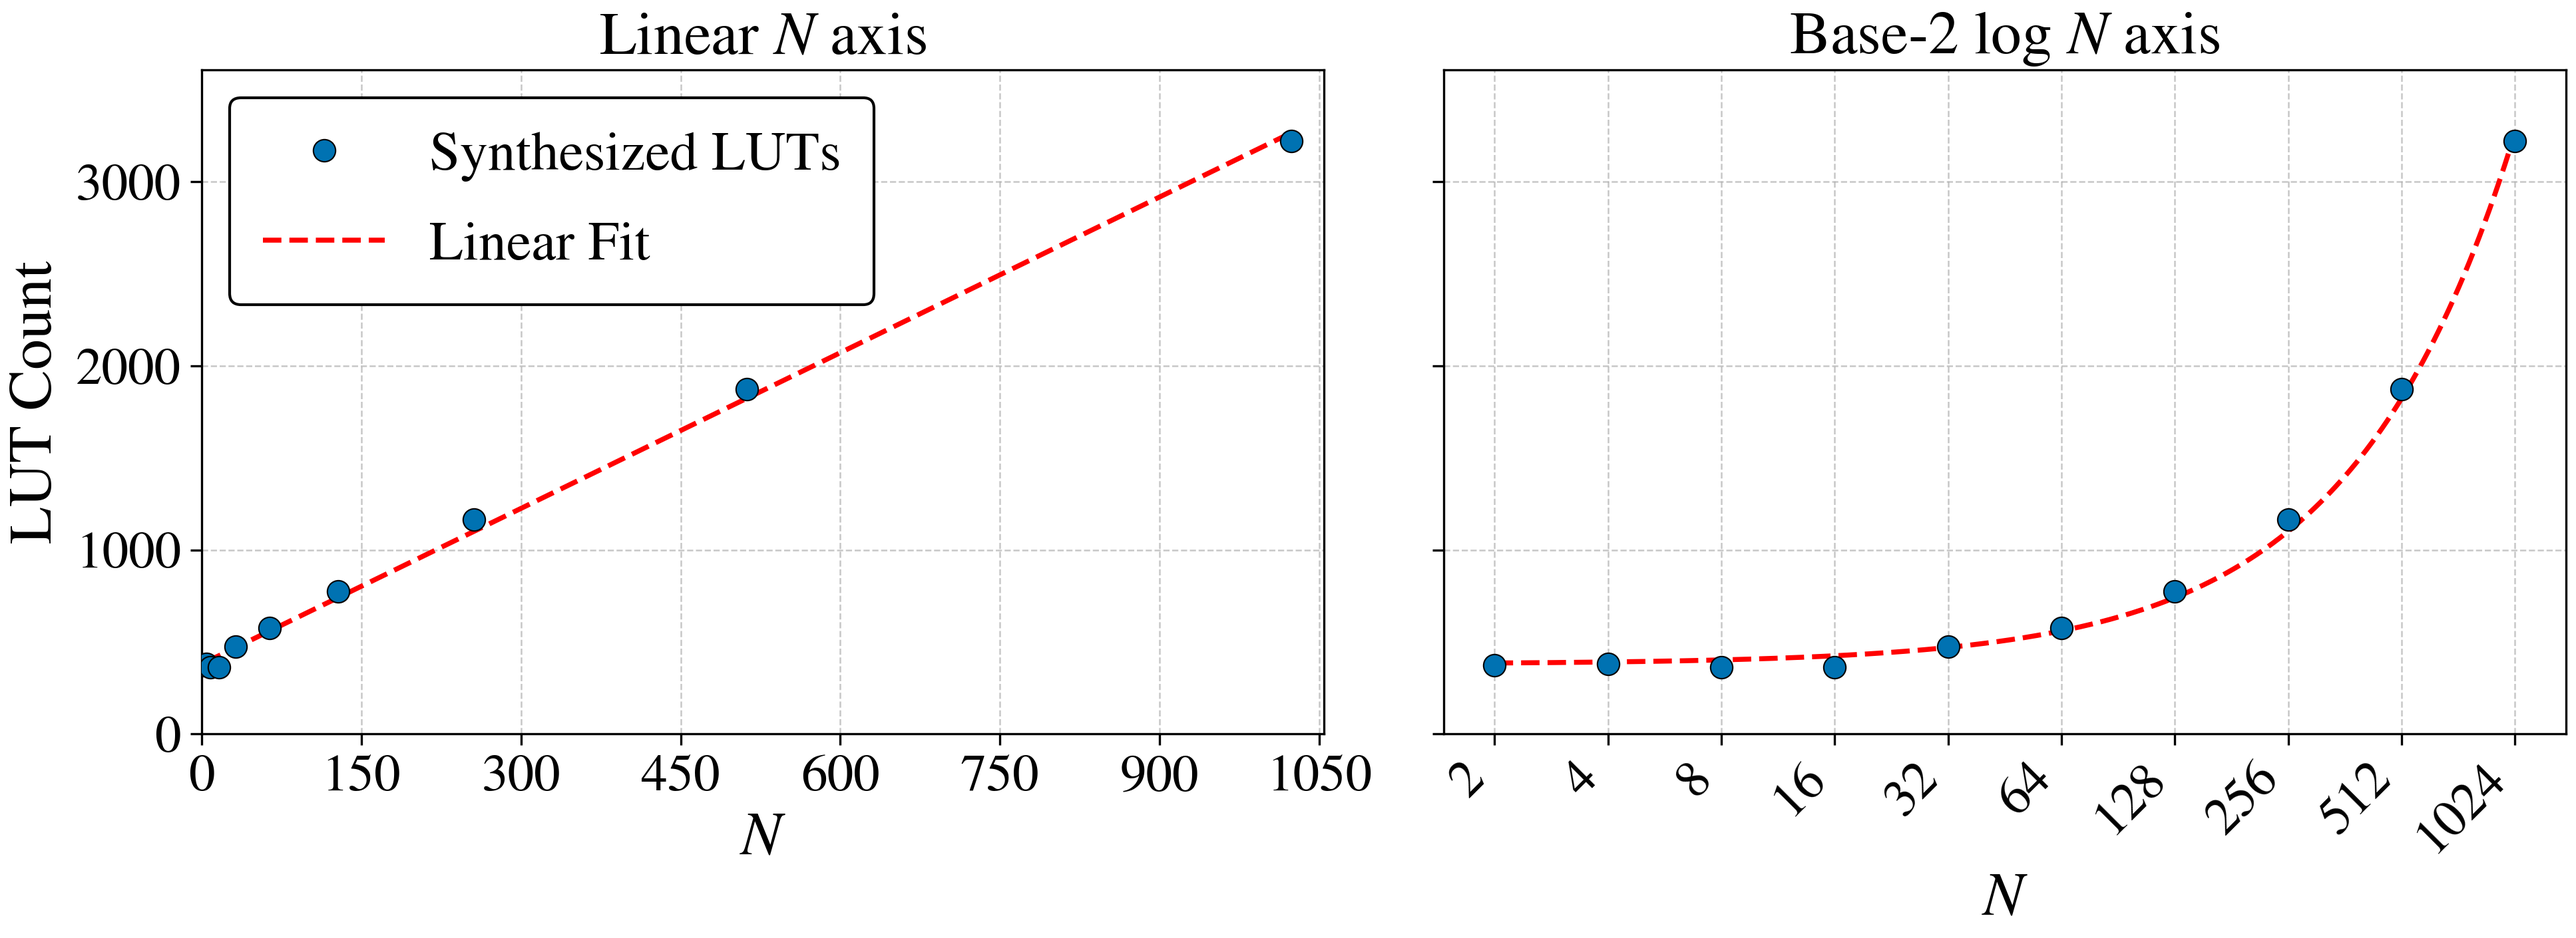
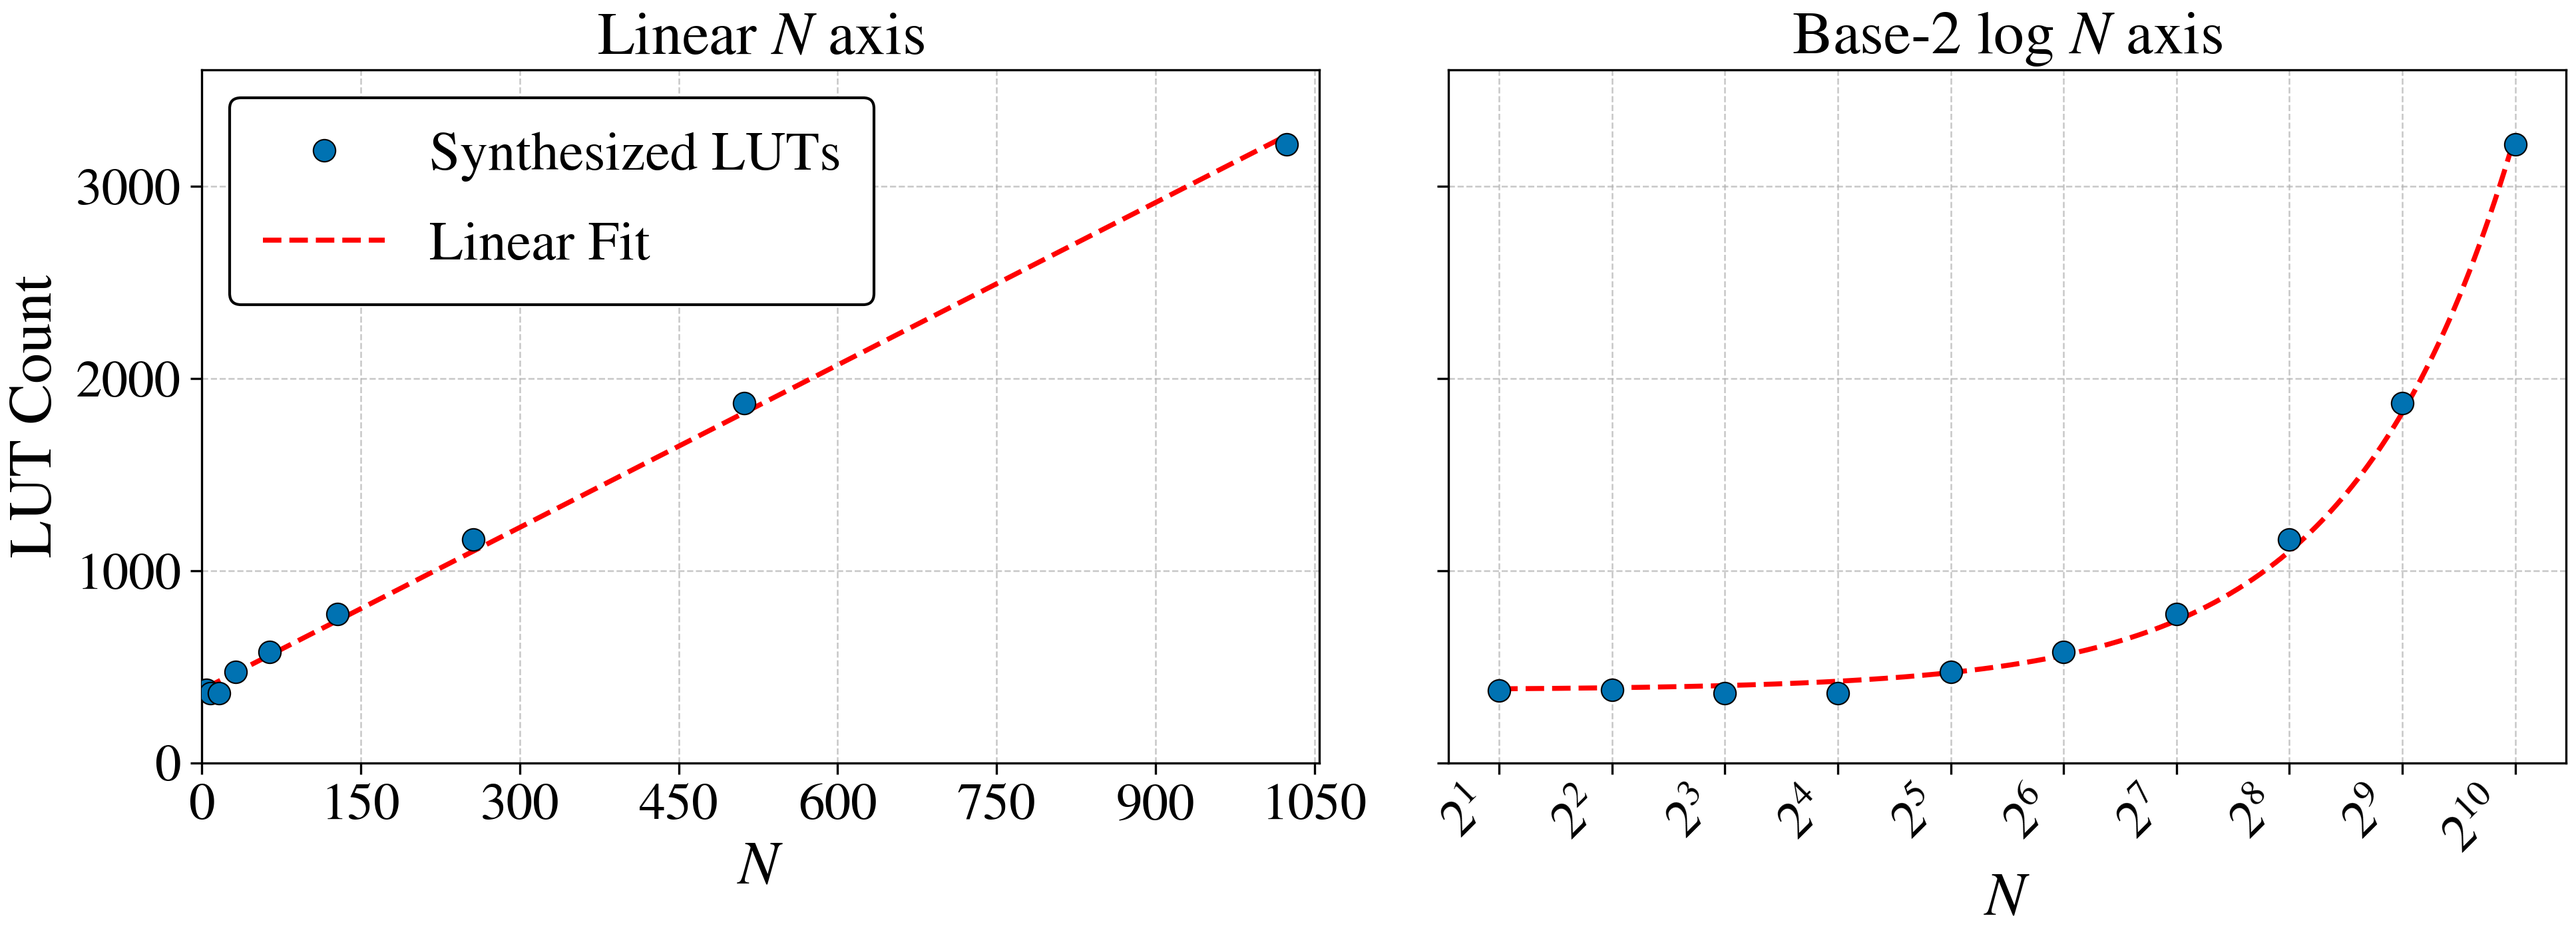
m

diff --git a/evaluation/layernorm/N_sweep/scripts/plot_accuracy.py b/evaluation/layernorm/N_sweep/scripts/plot_accuracy.py
@@ -92,6 +92,20 @@ SERIES = (
 COLOR_FIT = "red"
 
 
+def pow2_label(n: int) -> str:
+    """Format a sampled ``N`` as a base-2 power label for the log x-axis.
+
+    Every sampled ``N`` is a power of two, so it is shown as ``2^k`` (rendered
+    via mathtext, e.g. ``2^{10}`` for 1024) rather than the raw integer, matching
+    the base-2 log axis. Falls back to the plain integer for the (unexpected)
+    case of an ``N`` that is not an exact power of two.
+    """
+    exp = n.bit_length() - 1
+    if n > 0 and (1 << exp) == n:  # exact power of two
+        return rf"$2^{{{exp}}}$"
+    return str(n)
+
+
 def load_accuracy_csv(path: Path) -> tuple[list[float], list[float]]:
     """Load the ``(N, RMSRE)`` columns from an accuracy CSV.
 
@@ -224,11 +238,12 @@ def plot(label: str, color: str, marker: str, fit: bool,
     ax.set_xlabel(r"$N$")
     ax.set_ylabel(r"RMSRE")
 
-    # Show every sampled N as a major tick, labelled with its integer value,
-    # and suppress the base-2 minor ticks so the axis stays uncluttered.
+    # Show every sampled N as a major tick, labelled as a power of two (2^k) to
+    # match the base-2 log axis, and suppress the base-2 minor ticks so the axis
+    # stays uncluttered.
     all_n = sorted(set(n_vals))
     ax.set_xticks(all_n)
-    ax.set_xticklabels([str(n) for n in all_n], rotation=45, ha="right")
+    ax.set_xticklabels([pow2_label(n) for n in all_n], rotation=45, ha="right")
     ax.xaxis.set_minor_locator(NullLocator())
 
     # Decade major grid on the y-axis plus faint minor dec.-subdivisions so the

diff --git a/evaluation/layernorm/N_sweep/scripts/plot_resources.py b/evaluation/layernorm/N_sweep/scripts/plot_resources.py
@@ -173,6 +173,21 @@ def configure_style() -> None:
     )
 
 
+def pow2_label(n: float) -> str:
+    """Format a sampled ``N`` as a base-2 power label for the log x-axis.
+
+    Every sampled ``N`` is a power of two, so on the base-2 log axis it is shown
+    as ``2^k`` (rendered via mathtext, e.g. ``2^{10}`` for 1024) rather than the
+    raw integer. Falls back to the plain integer for the (unexpected) case of an
+    ``N`` that is not an exact power of two.
+    """
+    value = int(round(n))
+    exp = value.bit_length() - 1
+    if value > 0 and (1 << exp) == value:  # exact power of two
+        return rf"$2^{{{exp}}}$"
+    return str(value)
+
+
 def power_of_two_ticks(hi: float) -> np.ndarray:
     """Return the powers of two ``2, 4, 8, ...`` up to and including ``hi``.
 
@@ -287,10 +302,11 @@ def draw_lut_axis(
 
     if log_x:
         # Base-2 log x-axis (N is a power of two): one major tick per sampled N,
-        # labelled with its integer value, base-2 minor ticks suppressed.
+        # labelled as a power of two (2^k) to match the base-2 axis, base-2 minor
+        # ticks suppressed.
         ax.set_xscale("log", base=2)
         ax.set_xticks(n_vals)
-        ax.set_xticklabels([str(int(n)) for n in n_vals], rotation=45, ha="right")
+        ax.set_xticklabels([pow2_label(n) for n in n_vals], rotation=45, ha="right")
         ax.xaxis.set_minor_locator(NullLocator())
     elif linear_grid == "pow2":
         # Linear x-axis with a base-2 (log-spaced) grid: the axis scale stays
